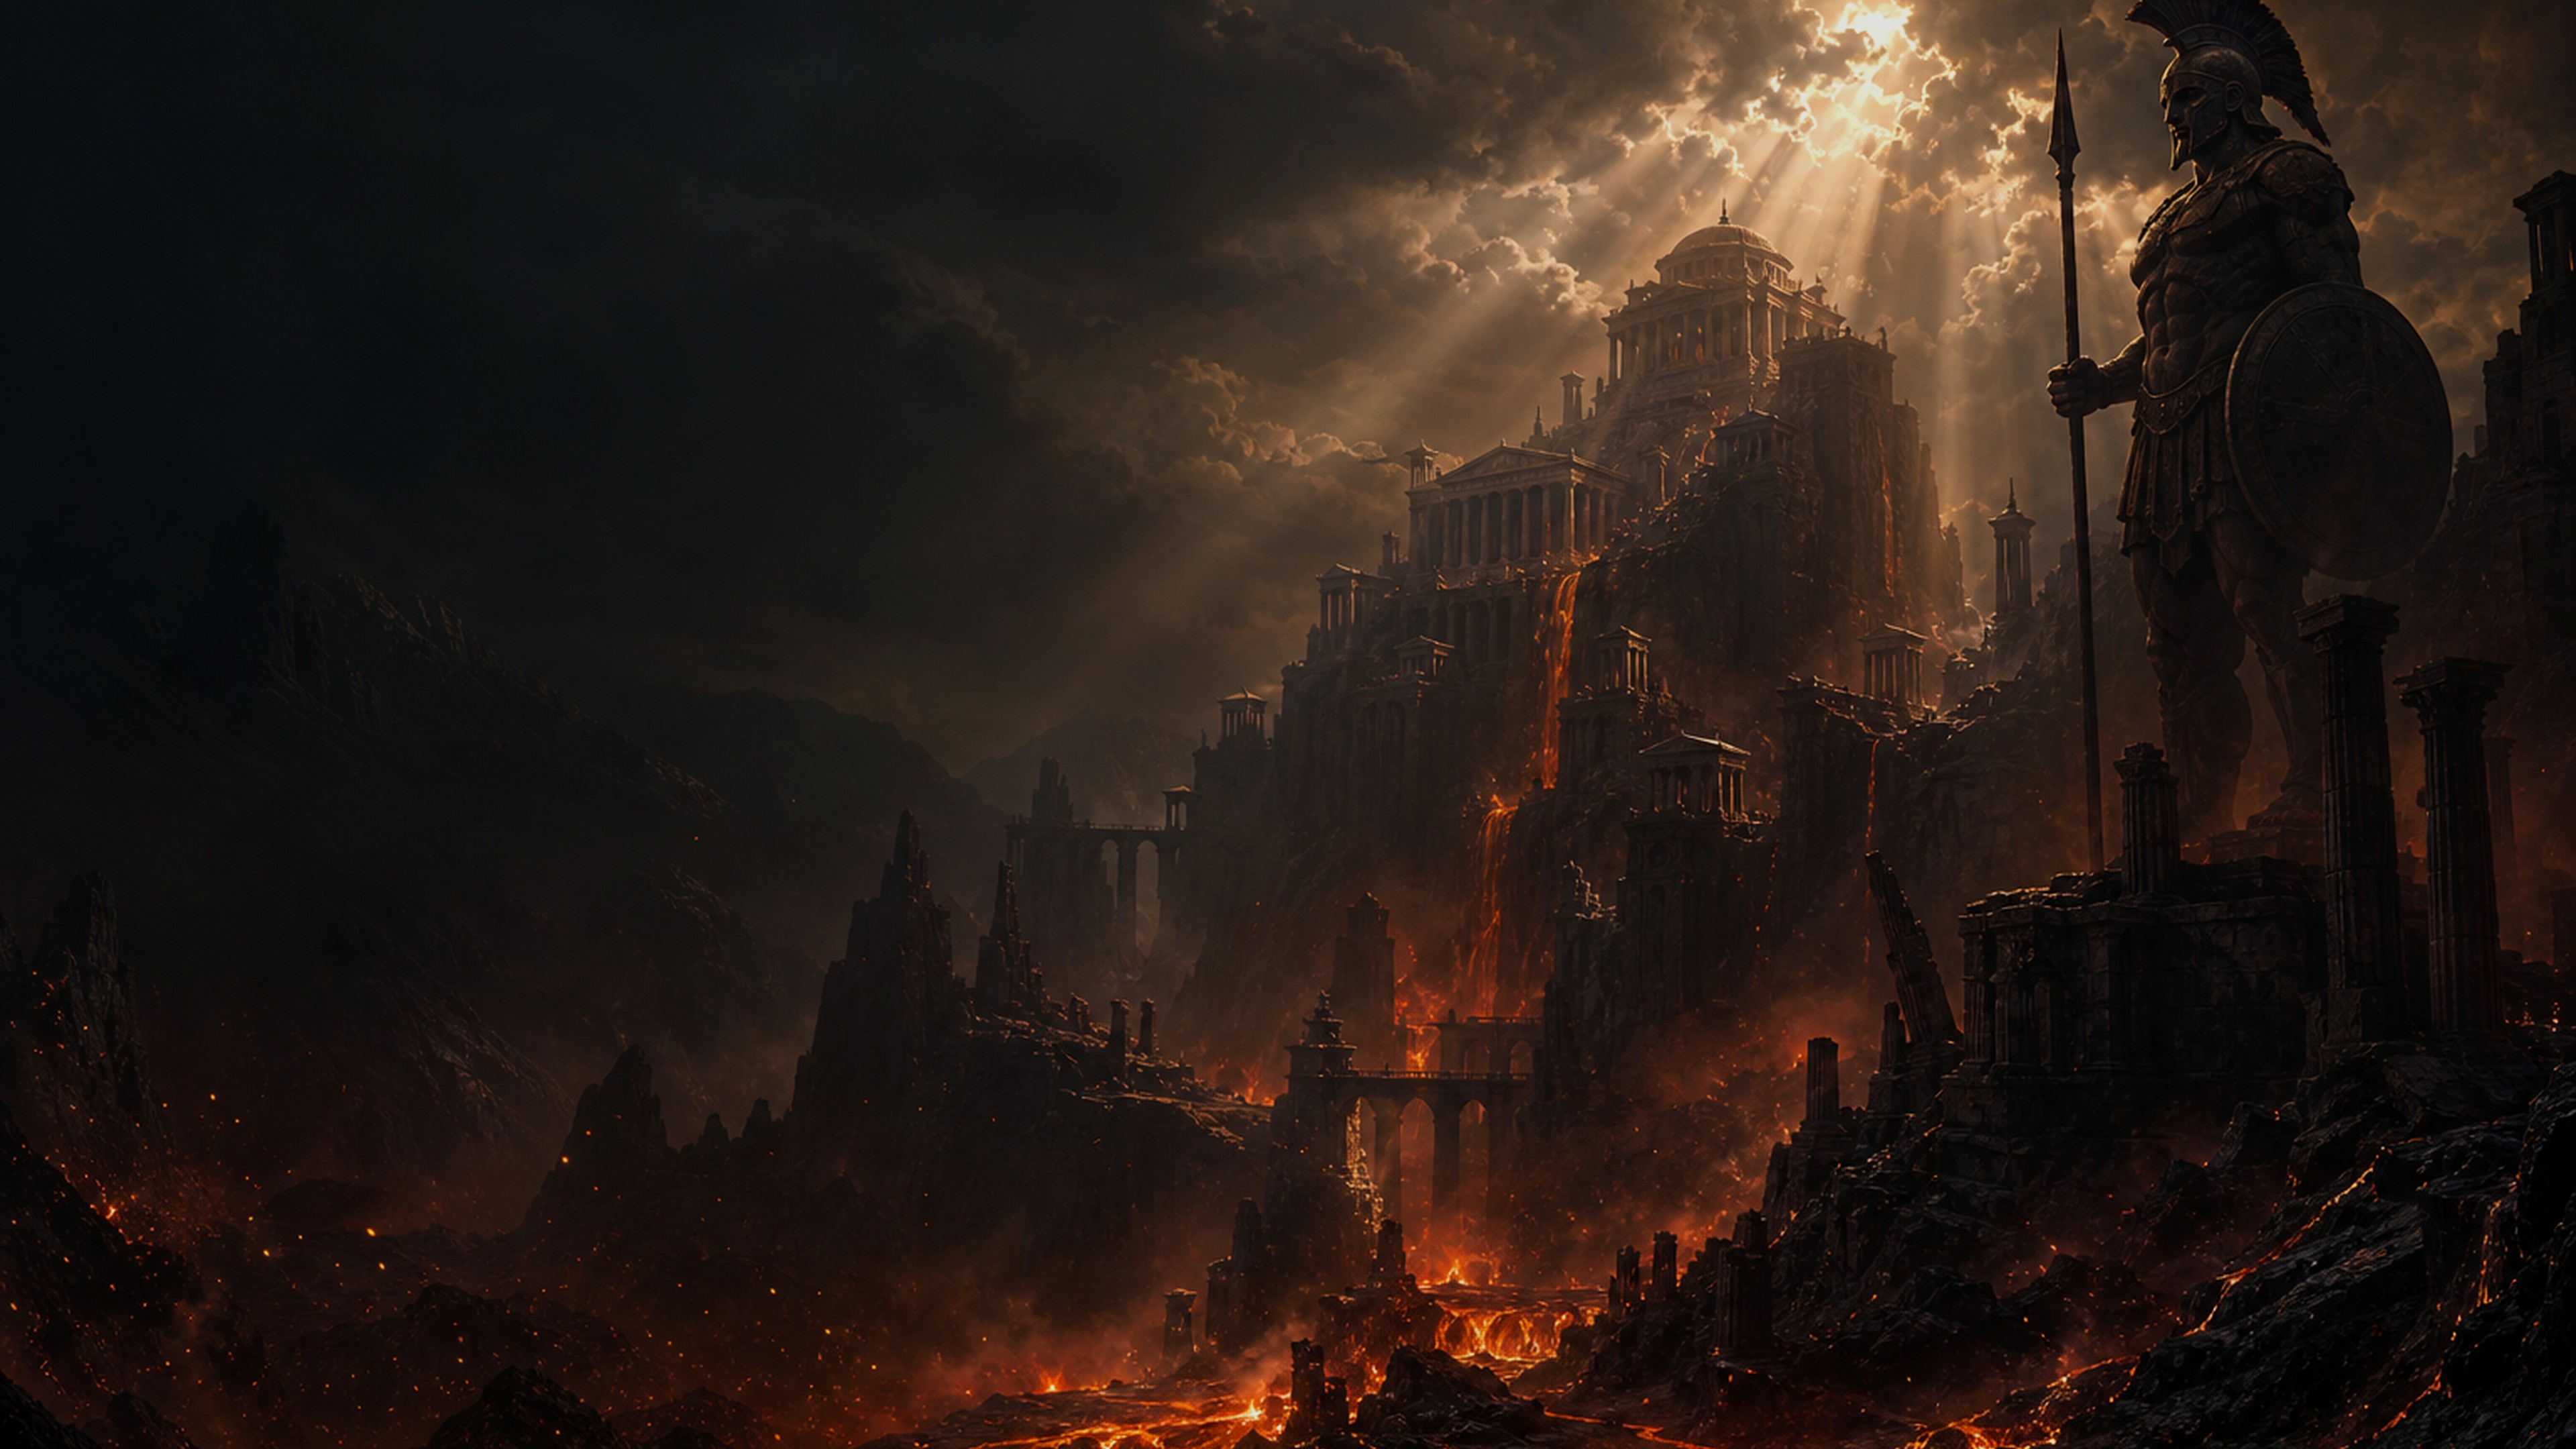
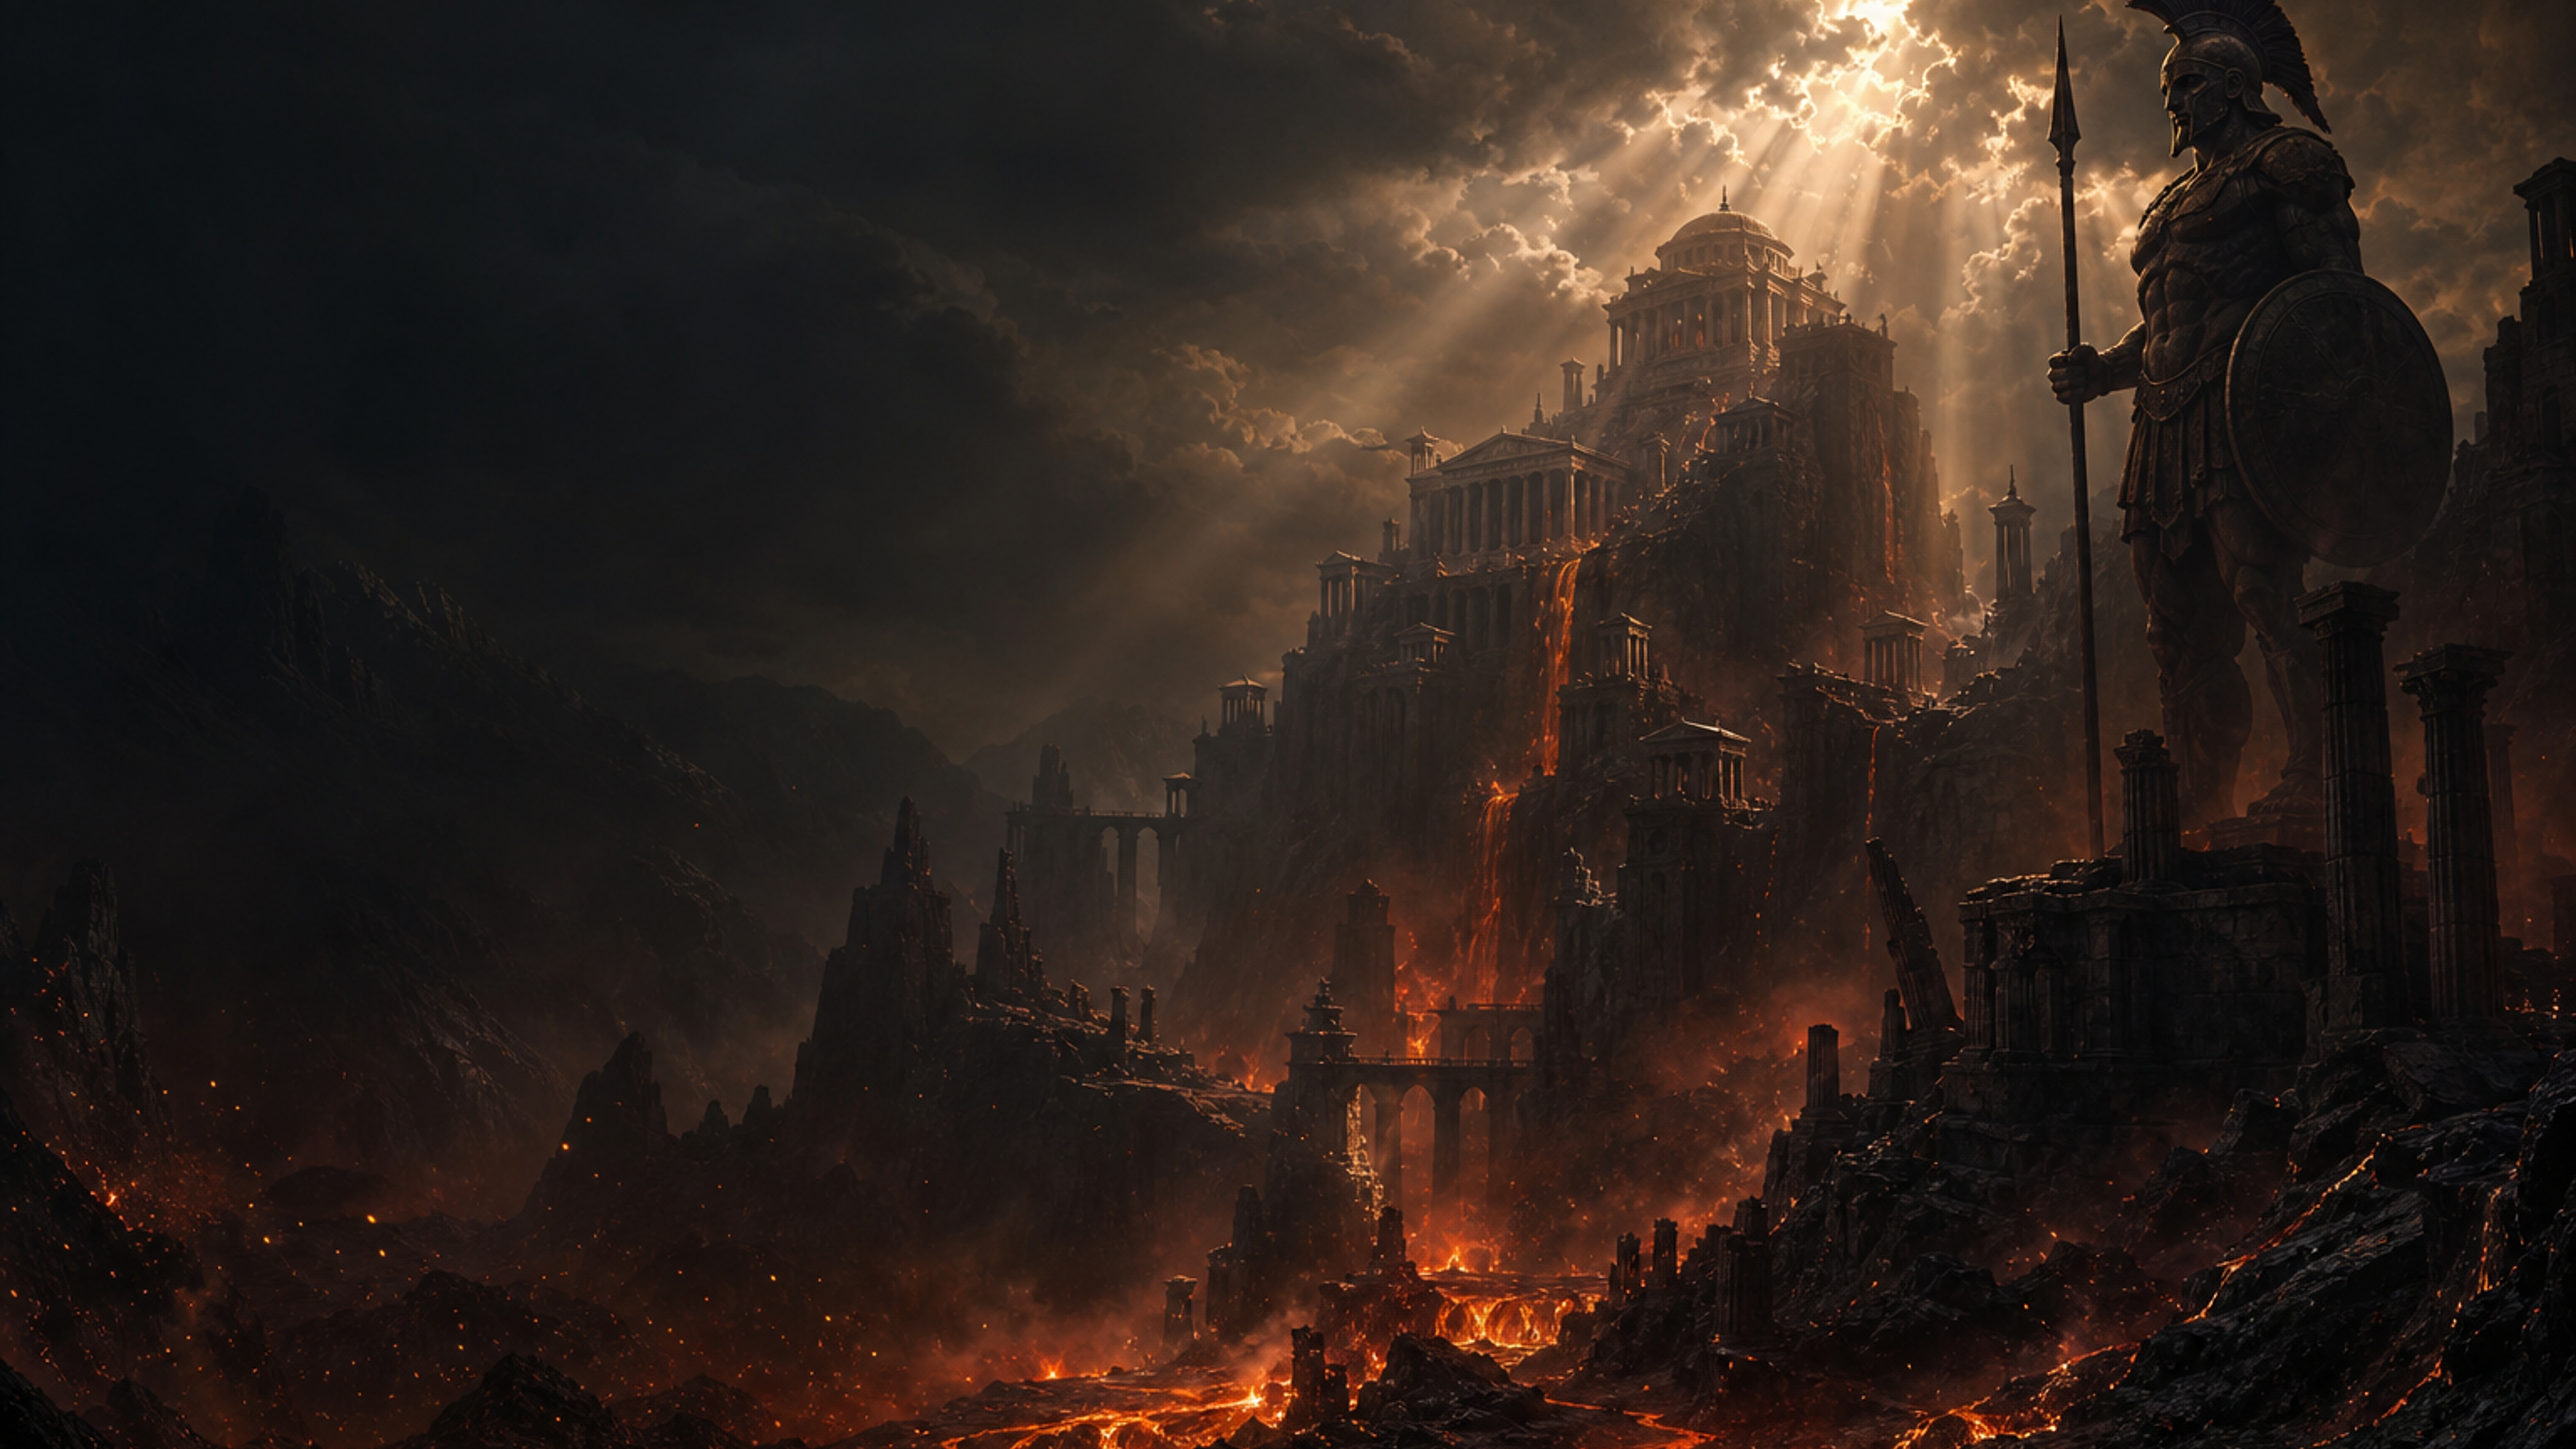
fix: restore god of war 4k background

diff --git a/src/version.generated.ts b/src/version.generated.ts
@@ -1,2 +1,2 @@
 // Auto-generated by build-skins.cjs — do not edit manually
-export const BUILD_VERSION = '20260709041605';
+export const BUILD_VERSION = '20260709042627';

diff --git a/CUSTOM_FEATURES.md b/CUSTOM_FEATURES.md
@@ -16,7 +16,7 @@
 - 能源页读取 HA 原生能源配置的「个体设备」(`device_consumption`)：每个设备一张卡，显示今日用电+昨日对比+30天柱状图，图标按名称智能匹配；用户在 HA 能源设置里增删设备即自动生效，无需卡片编辑器 UI
 - God of War 主题：`god_of_war_3_wall`
 - God of War 官方素材裁切版：`source-kratos-wallpaper.jpg` 保留用户指定 1920x1080 原图（MD5 `204ca3b343688906f5ca57de48c827cd`），`avatar.png` 使用从该原图裁出的正方形官方头像源图（MD5 `98269216d3a9d5729f3572509d5b317e`），背景/房间/图标来自官方素材裁切，禁止回退到程序化模拟图
-- God of War 主舞台背景 `background.jpg` 使用 `source-room-gow3-olympus-base-view.jpg` 裁切出的奥林匹斯远景（MD5 `218da48ed9efc26c8b6275d9d356dfc9`），不要回退到巨人脸/手臂特写图，横幅里会压住文字
+- God of War 主舞台背景 `background.jpg` 固定使用 `source-gow-4k-bg.png` 生成的战神熔岩神殿远景（MD5 `af45e72ec15a2a074121a731631dd405`），不要回退到山景奥林匹斯远景/巨人脸特写，横幅里会压住文字
 - God of War 房间图池至少保留 10 张 `room-*.jpg` 作为素材池/备选；但 God of War 主题默认房间卡使用透明背景透出主题大图，不渲染独立房间 `<img>`；用户明确排除绿色大厅图 `source-room-gow3-daedalus-environment.jpg`
 - 房间卡图片必须有破图兜底：保留 `hideBrokenImage` 和房间/头像 `<img @error=...>` 处理，任何资源路径短暂失效时不能显示浏览器蓝色问号，只能隐藏破图并使用卡片背景兜底
 - God of War 视觉偏好：深色暗红玻璃侧边栏 + 更强背景压暗（见 `HA_RESTORE.md`）
@@ -58,4 +58,4 @@
 - 2026-07-08：God of War 房间卡默认改为透明卡片效果：所有房间统一不渲染独立房间图，直接透出主题大背景并保留压暗层；这比多张房间图更符合当前视觉。10 张 `room-*.jpg` 只作为素材池/备选保留。
 - 2026-07-08：空调调温弹层：`climate` 设备卡主体点击使用 `climate-control` 动作打开弹层，保留开关独立开/关；弹层用 `climate.set_temperature`、`set_hvac_mode`、`set_fan_mode`，样式类为 `climate-control-*`。
 - 2026-07-08：部署缓存保护：部署脚本必须同步 `skins-pro` 与 `znSkins-Pro`，并更新 `/config/.storage/lovelace_resources` 中 `skins-pro.js?hacstag=...&build=...`；只上传文件但不更新 resource URL 会导致清浏览器历史也继续无效。
-- 2026-07-08：God of War 主背景替换为奥林匹斯远景：`background.jpg` 从 `source-room-gow3-olympus-base-view.jpg` 生成，保留空间感，避免巨人脸特写抢文字。
+- 2026-07-08：God of War 主背景替换为战神熔岩神殿远景：`background.jpg` 从 `source-gow-4k-bg.png` 生成，保留右侧战神雕像和神殿/熔岩主体；禁止回退到山景奥林匹斯远景或巨人脸特写。

diff --git a/UPGRADE_CHECKLIST.md b/UPGRADE_CHECKLIST.md
@@ -16,7 +16,7 @@
 - God of War 主题正常加载
 - 能源页显示 HA 能源配置里的电网 + 个体设备（`device_consumption`），每设备一张今日+30天柱状图卡
 - God of War 主题素材按官方主题标准：确认 `source-kratos-wallpaper.jpg` MD5 为 `204ca3b343688906f5ca57de48c827cd`，确认 `avatar.png` MD5 为 `98269216d3a9d5729f3572509d5b317e`
-- God of War 主舞台背景保持奥林匹斯远景：确认 `skins-pro/god_of_war_3_wall/background.jpg` MD5 为 `218da48ed9efc26c8b6275d9d356dfc9`，不能回退为巨人脸/手臂特写图
+- God of War 主舞台背景保持战神熔岩神殿远景：确认 `skins-pro/god_of_war_3_wall/source-gow-4k-bg.png` 存在，且 `skins-pro/god_of_war_3_wall/background.jpg` MD5 为 `af45e72ec15a2a074121a731631dd405`，不能回退为山景奥林匹斯远景或巨人脸/手臂特写图
 - God of War 房间图池至少 10 张作为素材池/备选；默认房间卡必须是透明卡片透出主题大图，不渲染独立房间 `<img>`；不得恢复用户排除的绿色大厅图 `source-room-gow3-daedalus-environment.jpg`
 - 房间卡图片加载失败时不能出现浏览器蓝色问号；确认 `hideBrokenImage` 和房间/头像图片的 `@error` 兜底仍在
 - 首页背景、头像、设备图标不丢失